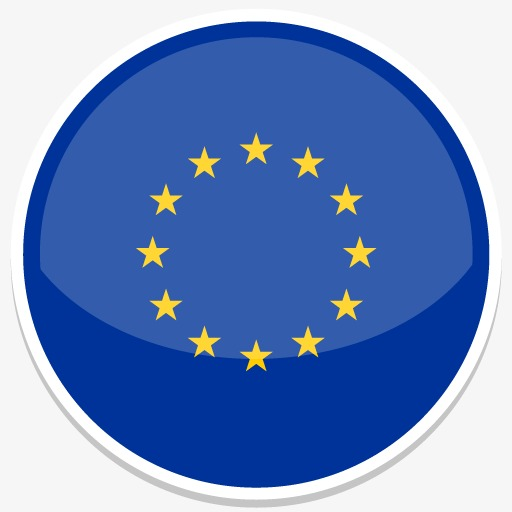
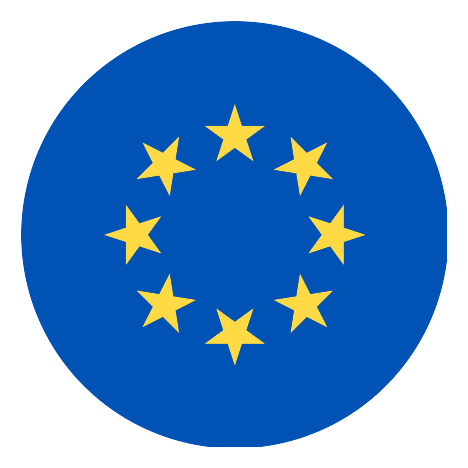
new flag
new flag

diff --git a/js/analysis.js b/js/analysis.js
@@ -143,7 +143,6 @@ $.ajax({
            typ[i]=data[i].type;
            number[i]=data[i].number;
        }
-        //alert(number[5]);
     }
 })
 var day1=[]
@@ -216,9 +215,7 @@ $.get(graphname, function (xml) {
         node.symbol = fimg;
         }
         else{
-            //node.symbol="image://http://d.lanrentuku.com/down/png/1101/paradise_fruit/apple512.png";
         }
-        //node.symbol = "image://http://d.lanrentuku.com/down/png/1101/paradise_fruit/apple512.png";
         node.value = node.attributes.nodenumber;
         node.symbolSize /= 1.5;
         node.label = {

diff --git a/index.html b/index.html
@@ -322,9 +322,9 @@
                         </select>
                     </div> -->
                     <div id="gexfname">请先选择合适的日期</div>
-                    <div class="gexfgraph" id="gexfgraph1"></div>
                     <button id='gexflbtn' onclick=gexflbtnclick()></button>
                     <button id='gexfrbtn' onclick=gexfrbtnclick()></button>
+                    <div class="gexfgraph" id="gexfgraph1"></div>
                 </div>
                 <div class="other_charts">
                     <div class="row1">
